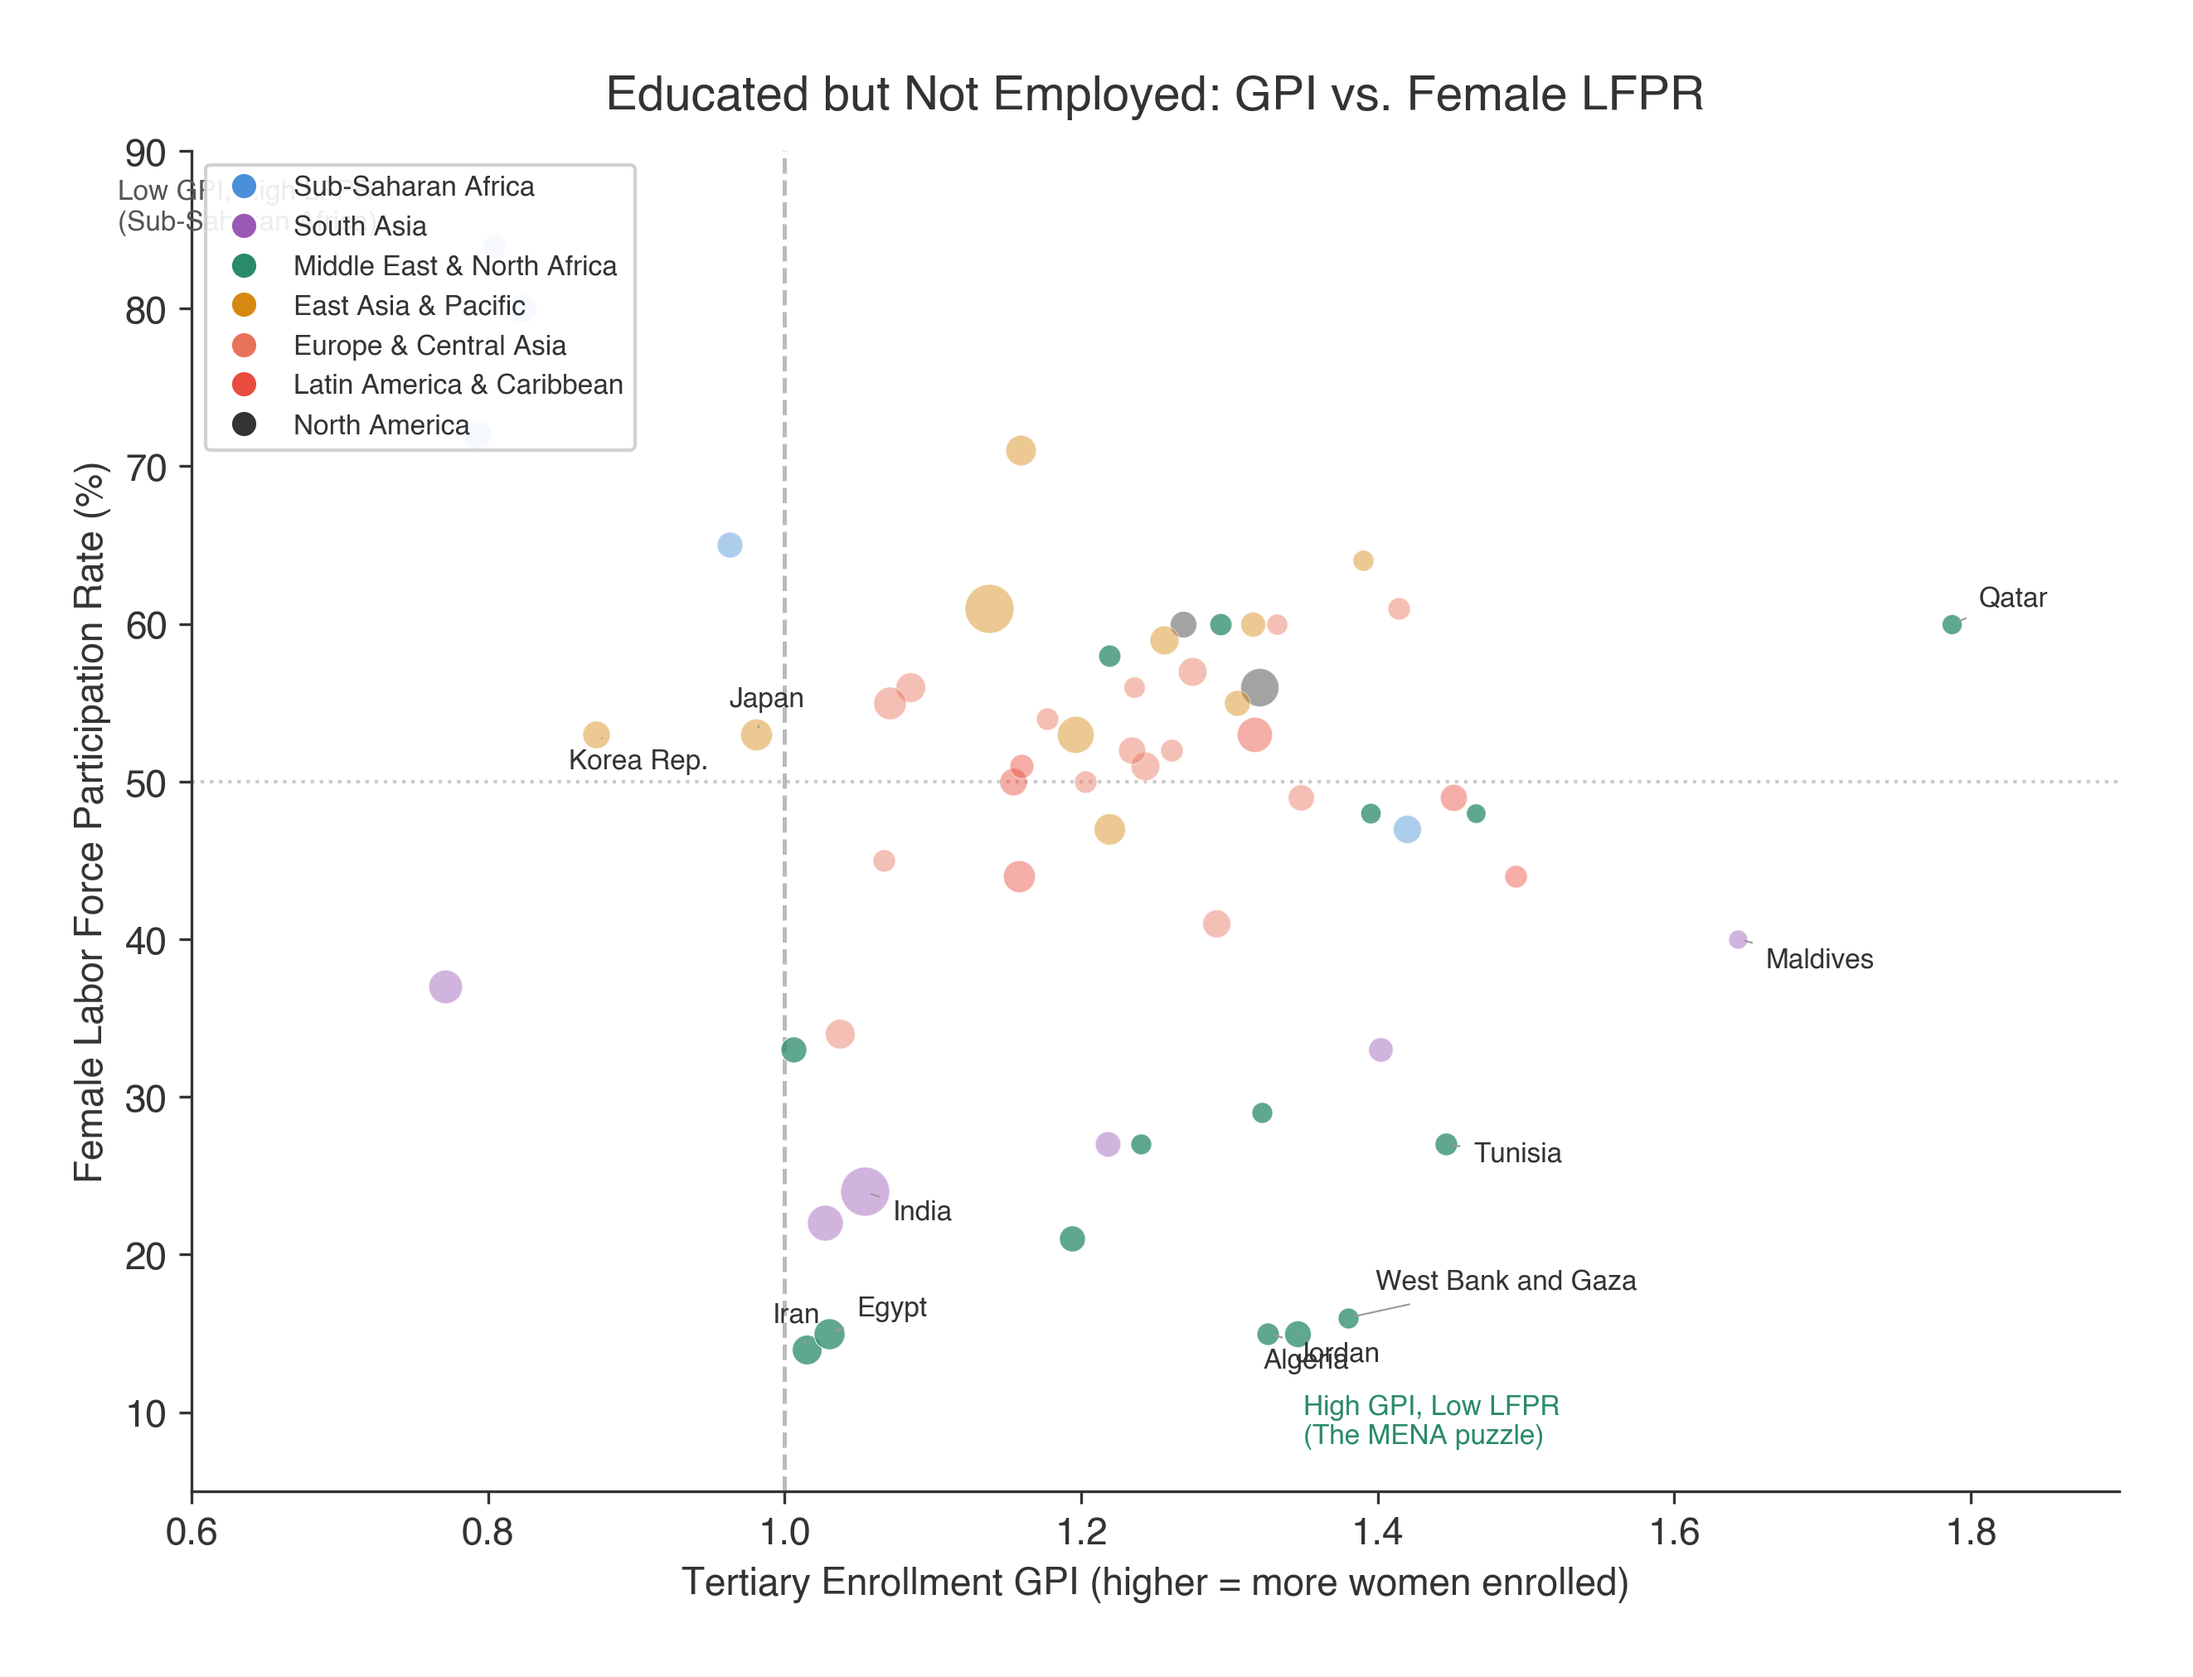
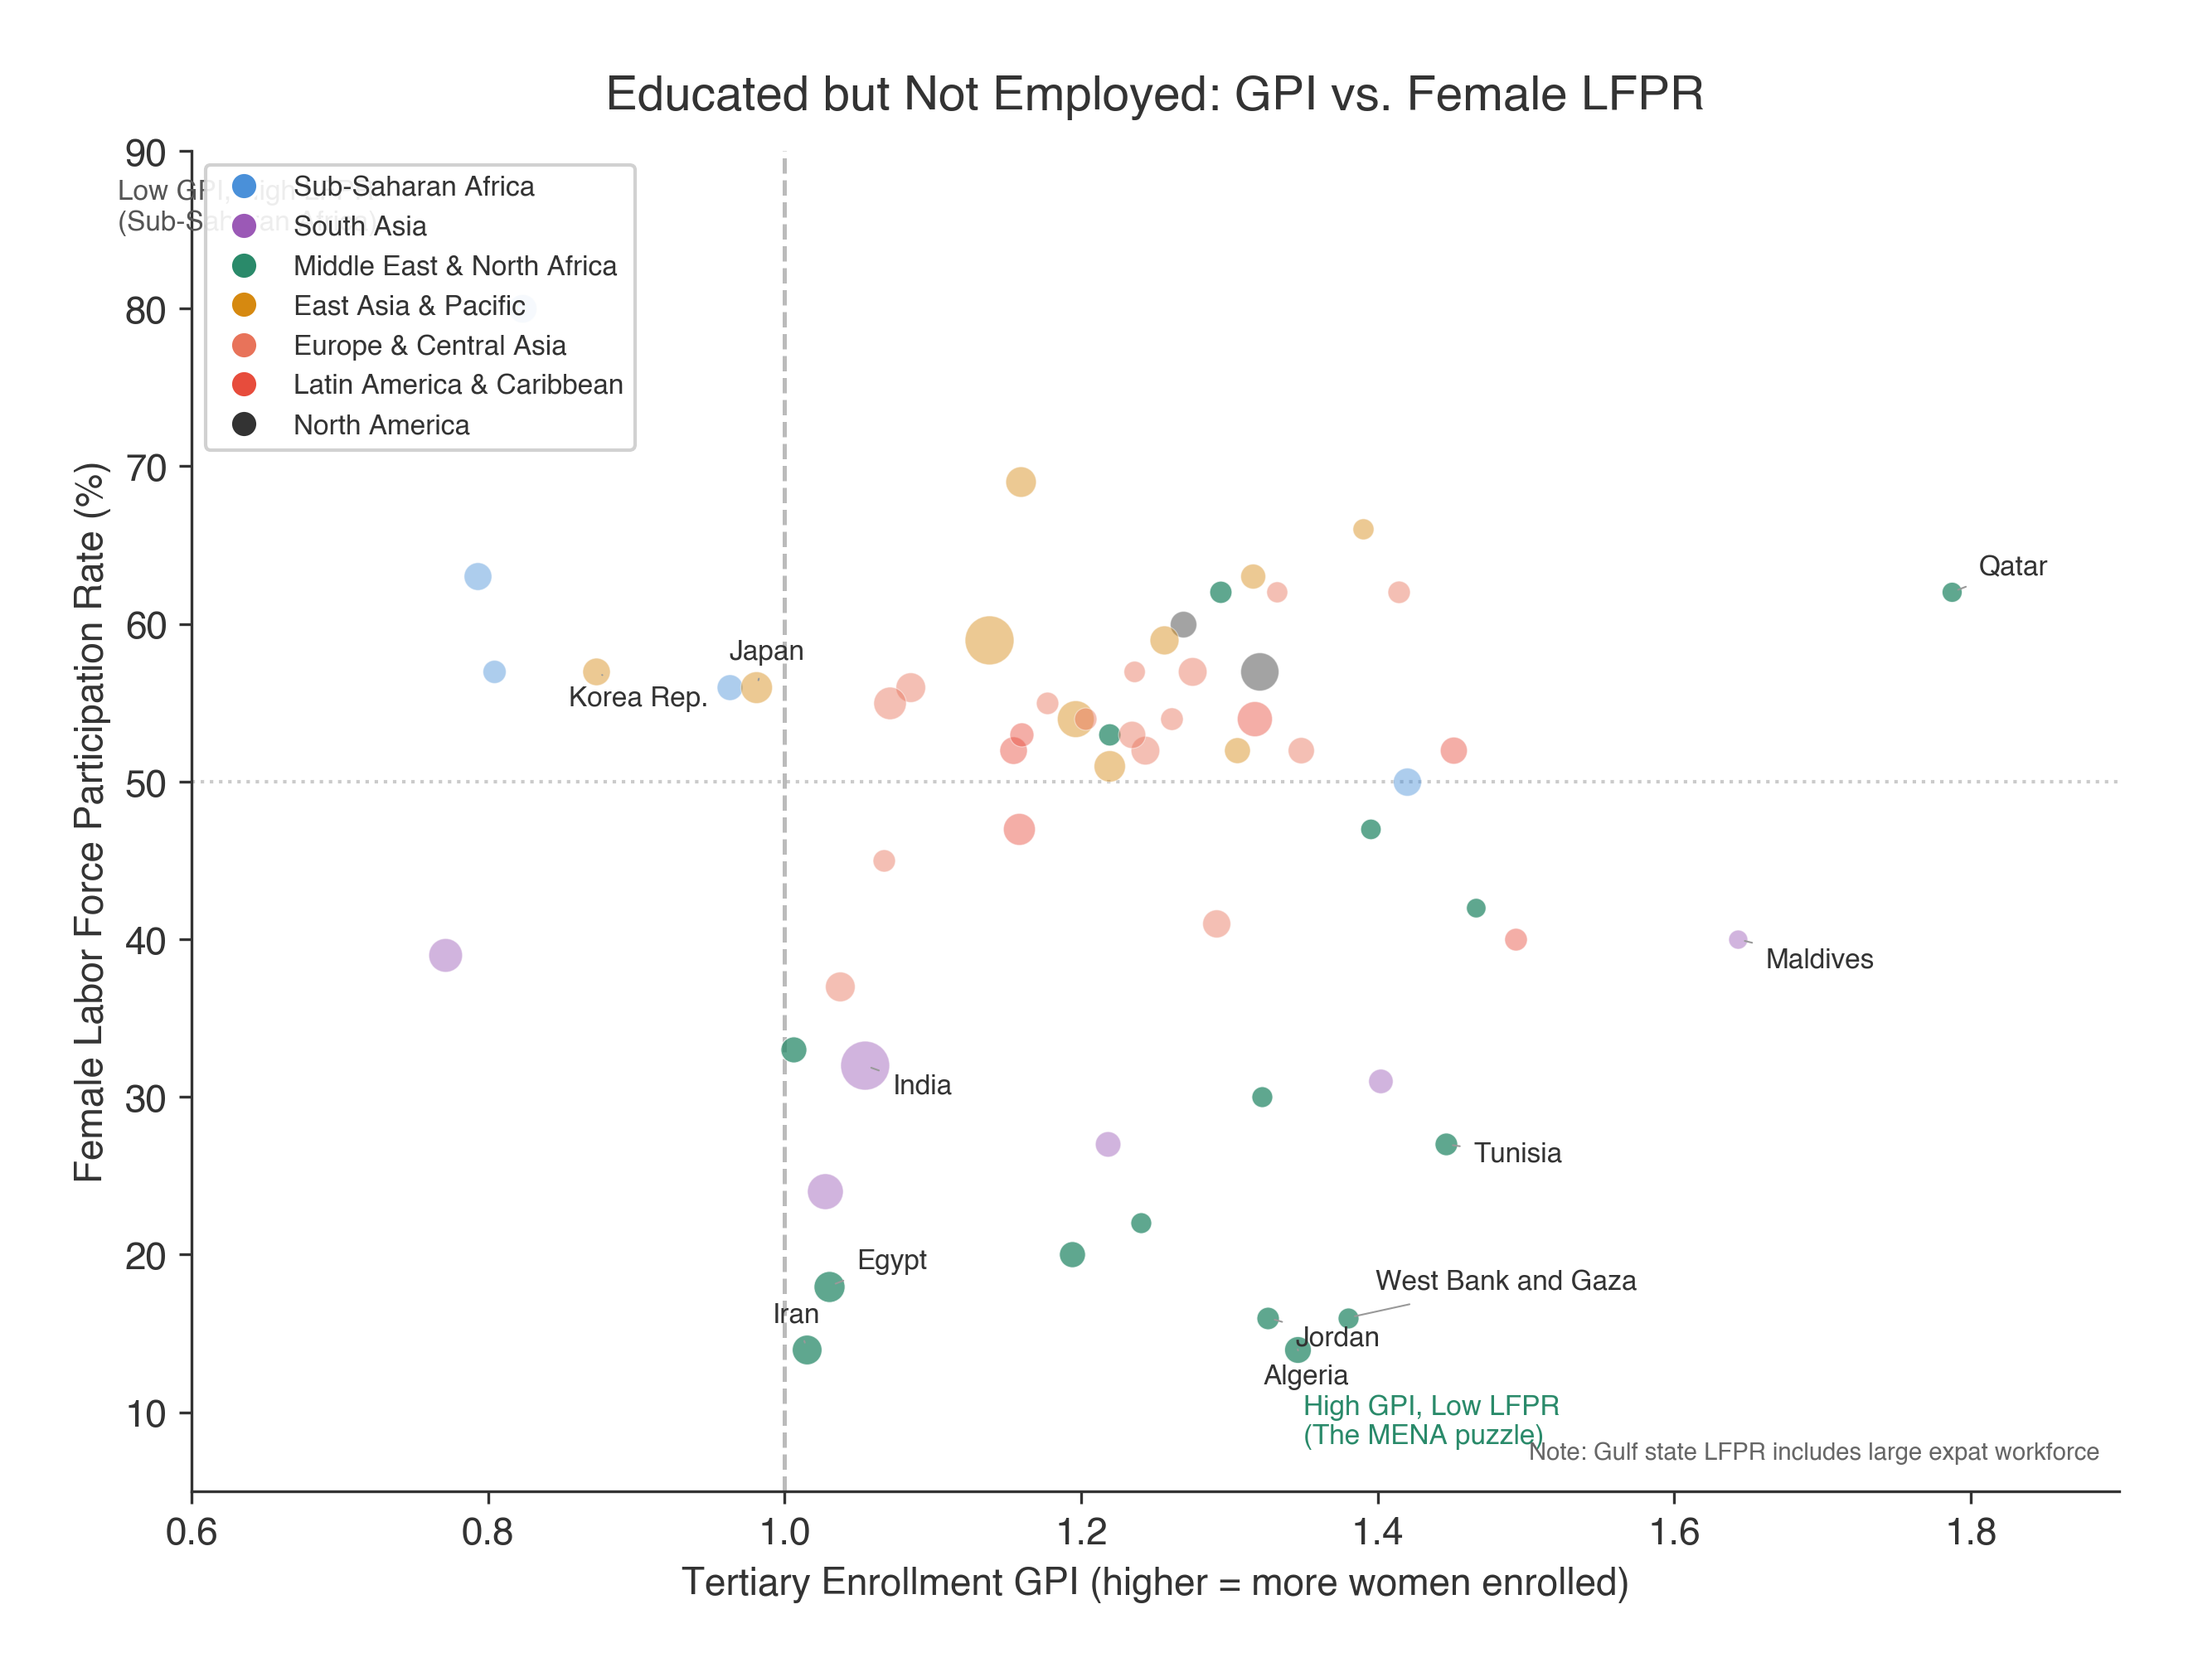
gulf caveat + new female labor force data as earlier didn't seem reliable

diff --git a/scripts/03_make_figures.py b/scripts/03_make_figures.py
@@ -372,6 +372,10 @@ ax.set_ylim(5, 90)
 ax.spines['top'].set_visible(False)
 ax.spines['right'].set_visible(False)
 
+ax.text(0.99, 0.02, 'Note: Gulf state LFPR includes large expat workforce',
+        transform=ax.transAxes, fontsize=7, color='#666666', style='italic',
+        ha='right', va='bottom')
+
 fig.savefig('figs/fig6_gpi_vs_lfpr.png', facecolor=BG)
 plt.close()
 
